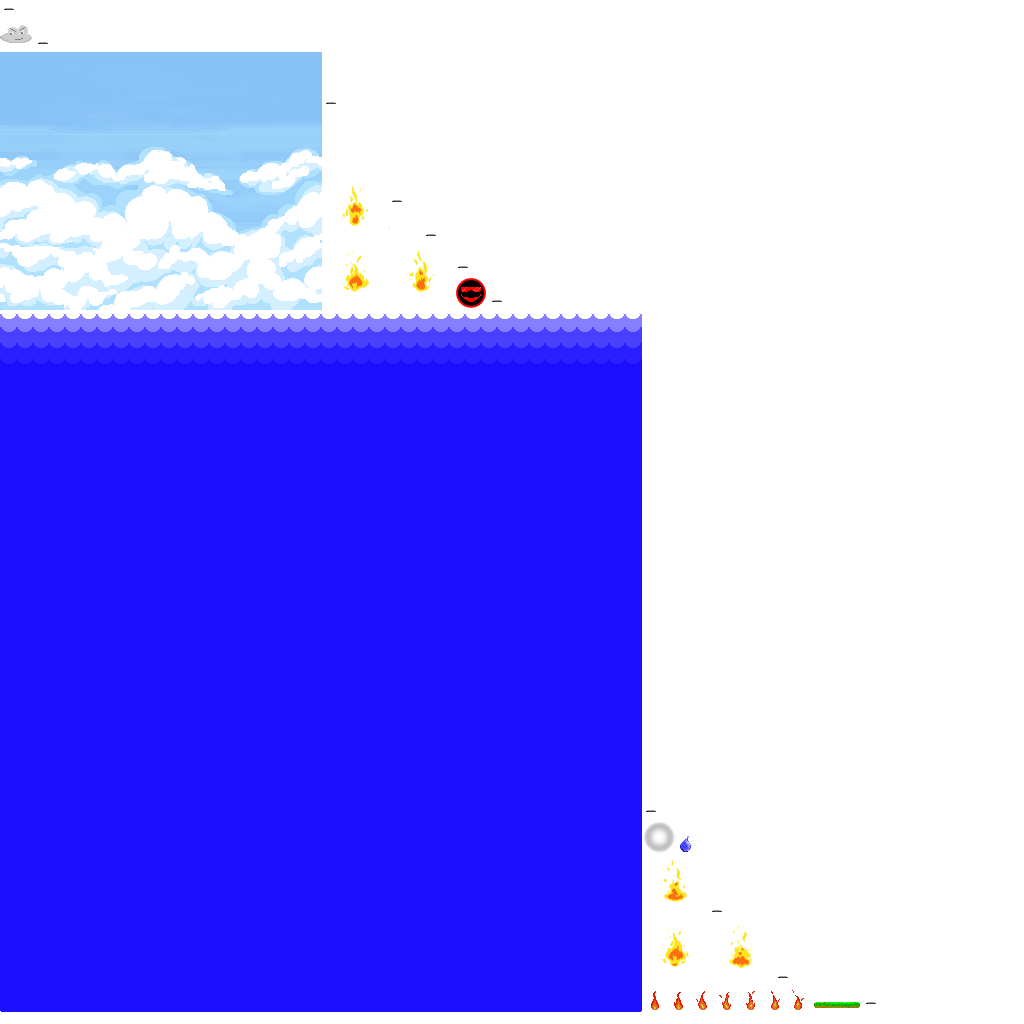
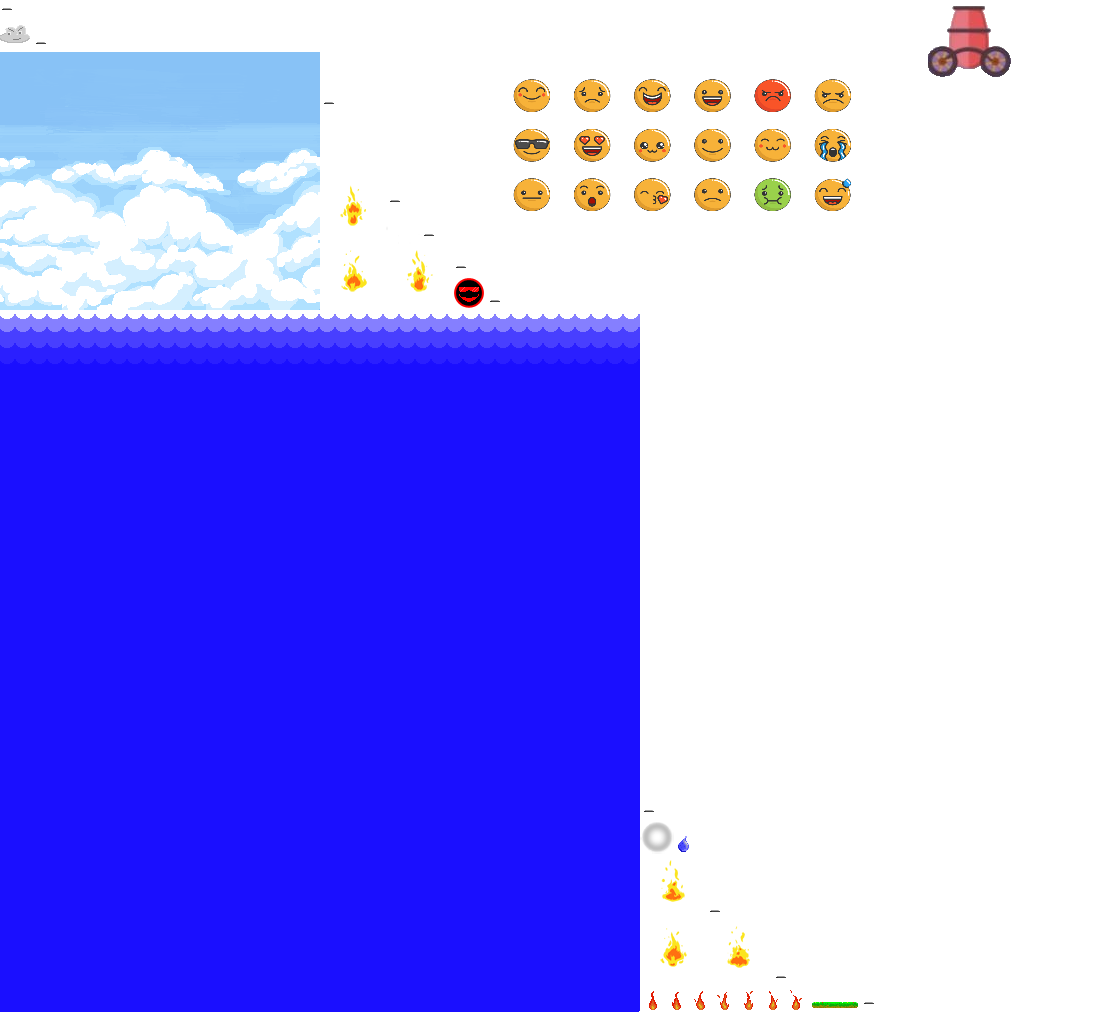
EnemyFace

diff --git a/core/src/nz/unitec/ballgame/tools/BallFactory.java b/core/src/nz/unitec/ballgame/tools/BallFactory.java
@@ -13,6 +13,8 @@ import com.badlogic.gdx.physics.box2d.BodyDef;
 import com.badlogic.gdx.physics.box2d.World;
 import com.badlogic.gdx.utils.Array;
 
+import java.util.Random;
+
 import nz.unitec.ballgame.BallGame;
 import nz.unitec.ballgame.entity.components.AnimationComponent;
 import nz.unitec.ballgame.entity.components.B2dBodyComponent;
@@ -38,7 +40,6 @@ public class BallFactory {
     private final int FLOOR_OFFSET_Y = -10;
     private final int PLAYER_RADIUS = 35;
     private final int PLAYER_OFFSET_Y = FLOOR_OFFSET_Y + FLOOR_HEIGHT + PLAYER_RADIUS / 2 - 30;
-
     private TextureRegion wallTex;
     private TextureRegion floorTex;
     private TextureRegion enemyTex;
@@ -49,6 +50,7 @@ public class BallFactory {
     private OpenSimplexNoise openSim;
     public Entity player;
     public B2dAssetManager assman;
+    private Random  random=new Random();;
 
     public BallFactory(PooledEngine en, B2dAssetManager assMan) {
         engine = en;
@@ -62,11 +64,11 @@ public class BallFactory {
         floorTex.setRegionHeight(FLOOR_HEIGHT);
         floorTex.setRegionWidth(RenderingSystem.FRUSTUM_WIDTH);
 
-        enemyTex = atlas.findRegion("waterdrop");
+        //enemyTex = atlas.findRegion("enemy");
         this.assman = assMan;
 
         waterTex = atlas.findRegion("water");
-        bulletTex = DFUtils.makeTextureRegion(10, 10, "444444FF");
+       bulletTex = DFUtils.makeTextureRegion(10, 10, "444444FF");
         platformTex = atlas.findRegion("platform");
         world = new World(new Vector2(0, -9.8f), false);
         world.setContactListener(new B2dContactListener());
@@ -78,7 +80,7 @@ public class BallFactory {
 //        pem.addParticleEffect(ParticleEffectManager.FIRE, assMan.manager.get("particles/fire.pe",ParticleEffect.class),1f/128f);
 //        pem.addParticleEffect(ParticleEffectManager.WATER, assMan.manager.get("particles/water.pe",ParticleEffect.class),1f/16f);
 //        pem.addParticleEffect(ParticleEffectManager.SMOKE, assMan.manager.get("particles/smoke.pe",ParticleEffect.class),1f/64f);
-
+        this.createBackground();
     }
 
     /**
@@ -108,8 +110,13 @@ public class BallFactory {
             // only make enemies above level 5 (stops instant deaths)
             if (currentLevel > 5) {
                 if (genNForL(i * 300, currentLevel) > -0.2f) {
+
+                    TextureRegion    enemy;
+
+;                   int enemyUnmber=  random.nextInt(18)+101;
+                    enemy=atlas.findRegion(String.valueOf(enemyUnmber));
                     // add an enemy
-                    createEnemy(enemyTex, genNForL(i * 100, currentLevel) * (BallGame.WIDTH / 2 - offset) + BallGame.WIDTH / 2, BallGame.HEIGHT);
+                    createEnemy(enemy, genNForL(i * 100, currentLevel) * (BallGame.WIDTH / 2 - offset) + BallGame.WIDTH / 2, BallGame.HEIGHT);
                 }
             }
 
@@ -186,7 +193,7 @@ public class BallFactory {
         B2dBodyComponent b2dbody = engine.createComponent(B2dBodyComponent.class);
         TransformComponent position = engine.createComponent(TransformComponent.class);
         TextureComponent texture = engine.createComponent(TextureComponent.class);
-        AnimationComponent animCom = engine.createComponent(AnimationComponent.class);
+//        AnimationComponent animCom = engine.createComponent(AnimationComponent.class);
         PlayerComponent player = engine.createComponent(PlayerComponent.class);
         CollisionComponent colComp = engine.createComponent(CollisionComponent.class);
         TypeComponent type = engine.createComponent(TypeComponent.class);
@@ -197,13 +204,13 @@ public class BallFactory {
         b2dbody.body = bodyFactory.makeCirclePolyBody(RenderingSystem.FRUSTUM_WIDTH / 2, PLAYER_OFFSET_Y, PLAYER_RADIUS, BodyFactory.STONE, BodyDef.BodyType.DynamicBody, true);
         b2dbody.body.setSleepingAllowed(false); // don't allow unit to sleep or it wil sleep through events if stationary too long
         // set object position (x,y,z) z used to define draw order 0 first drawn
-        Animation anim = new Animation(0.1f, atlas.findRegions("flame_a"));
-        //anim.setPlayMode(Animation.PlayMode.LOOP);
-        animCom.animations.put(StateComponent.STATE_NORMAL, anim);
-        animCom.animations.put(StateComponent.STATE_MOVING, anim);
-        animCom.animations.put(StateComponent.STATE_JUMPING, anim);
-        animCom.animations.put(StateComponent.STATE_FALLING, anim);
-        animCom.animations.put(StateComponent.STATE_HIT, anim);
+//        Animation anim = new Animation(0.1f, atlas.findRegions("flame_a"));
+//        //anim.setPlayMode(Animation.PlayMode.LOOP);
+//        animCom.animations.put(StateComponent.STATE_NORMAL, anim);
+//        animCom.animations.put(StateComponent.STATE_MOVING, anim);
+//        animCom.animations.put(StateComponent.STATE_JUMPING, anim);
+//        animCom.animations.put(StateComponent.STATE_FALLING, anim);
+//        animCom.animations.put(StateComponent.STATE_HIT, anim);
 
         position.position.set(RenderingSystem.FRUSTUM_WIDTH / 2, PLAYER_OFFSET_Y, 0);
         texture.region = atlas.findRegion("player");
@@ -217,7 +224,7 @@ public class BallFactory {
         entity.add(b2dbody);
         entity.add(position);
         entity.add(texture);
-        entity.add(animCom);
+      //  entity.add(animCom);
         entity.add(player);
         entity.add(colComp);
         entity.add(type);
@@ -366,10 +373,12 @@ public class BallFactory {
         TextureComponent texture = engine.createComponent(TextureComponent.class);
         TypeComponent type = engine.createComponent(TypeComponent.class);
 
-        position.position.set(46, 32, -10);
+        position.position.set(23, 17, -10);
         texture.region = atlas.findRegion("skybg");
+
         type.type = TypeComponent.SCENERY;
-        b2dbody.body = bodyFactory.makeBoxPolyBody(23, 17, 100, 100, BodyFactory.STONE, BodyDef.BodyType.StaticBody);
+
+        b2dbody.body = bodyFactory.makeBoxPolyBody(223, 17,RenderingSystem.FRUSTUM_WIDTH, RenderingSystem.FRUSTUM_HEIGHT, BodyFactory.STONE, BodyDef.BodyType.StaticBody,true);
 
         bodyFactory.makeAllFixturesSensors(b2dbody.body);
 
